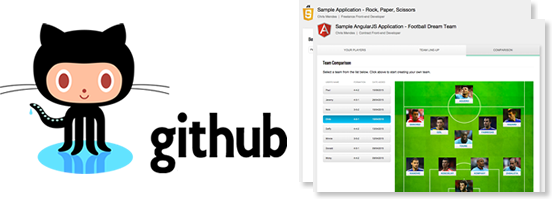
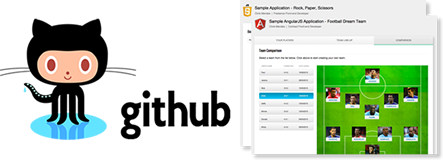
Home page tweaks

diff --git a/src/layouts/slide.scss b/src/layouts/slide.scss
@@ -1,9 +1,13 @@
 .layout-slide {
   @include span(full);
-  padding: 0 20px;
+  padding: 0 60px;
   margin-bottom: 50px;
 
   text-align: center;
+
+  @media(max-width: 900px) {
+    padding: 0 20px;
+  }
 }
 
 
